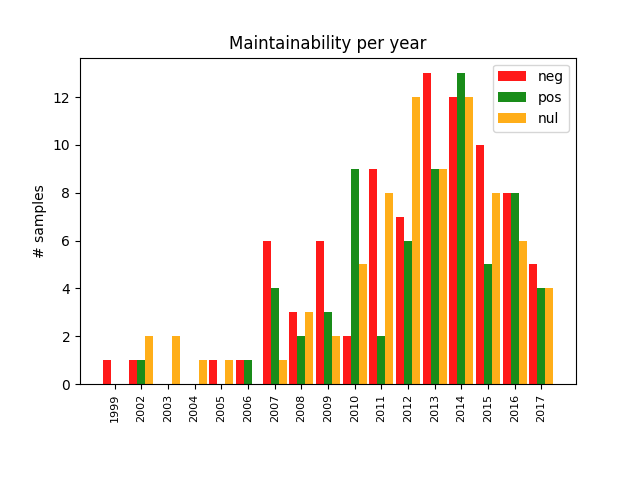
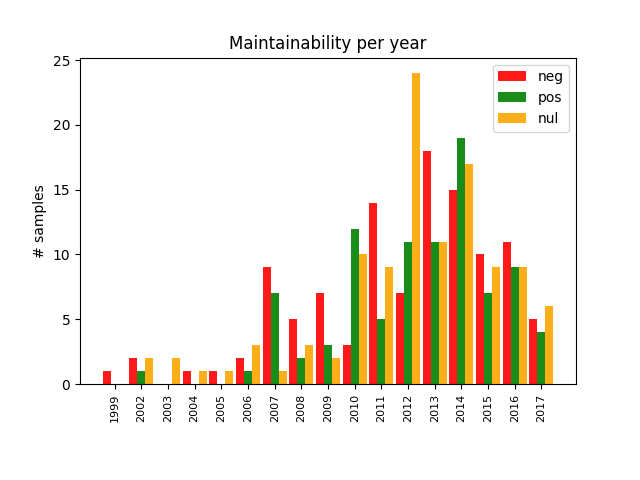
results + re-structure of the code

diff --git a/scripts/get_maintainability.py b/scripts/get_maintainability.py
@@ -74,81 +74,63 @@ def main(cache, results, graphics, dataset):
     data = pair_info(dataset)
 
     with open(results,'w') as out:
-    
+        
         fields = ['owner', 'project', 'sha', 'sha-p', 'main(sha)', 'main(sha-p)', 'main(diff)']
         writer = csv.DictWriter(out, fieldnames=fields)    
         writer.writeheader()
 
         total = {'neg': 0, 'pos': 0, 'nul': 0}
         keys = CACHE.data.keys()
-        
-        # fix problem of incomplete evaluation
-        len_eval = len(keys) if len(keys) % 2 == 0 else len(keys) - 1
 
-        lang = {}
-        pattern = {}
-        year = {}
+        langs = {}
+        patterns = {}
+        years = {}
 
-        i = 0
-        while i < len_eval:
-            owner, proj, sha = get_key(keys,i).split('/')
-            owner_p, proj_p, sha_p = get_key(keys,i+1).split('/')
-
-            if owner != owner_p or proj != proj_p:
-                print(get_key(keys,i),'deleted...')
-                del CACHE.data[get_key(keys,i)]
-                len_eval-=1
-            else:
-                i+=2        
-
-        for i in range(0, len_eval,2):
-
-            owner, proj, sha = get_key(keys,i).split('/')
-            owner_p, proj_p, sha_p = get_key(keys,i+1).split('/')
-
-            info_f = CACHE.get_stored_commit_analysis(owner, proj, sha)
-            info_p = CACHE.get_stored_commit_analysis(owner_p, proj_p, sha_p)
-
-            if info_f.get('error') or info_p.get('error'):
-                continue
-
-            main = bch.compute_maintainability_score(info_f)
-            main_p = bch.compute_maintainability_score(info_p)
-            main_d = main - main_p
-                
-            writer.writerow({'owner' : owner, 'project': proj,
-                                'sha': sha, 'sha-p': sha_p,
-                                'main(sha)': main,
-                                'main(sha-p)': main_p,
-                                'main(diff)': main_d
-                                })
-
-            # TODO: IMPROVE
-            key = set_key(owner, proj, sha, sha_p)
-            l, p, y = data[key]
-            lang = check_if_in(l, lang)
-            pattern = check_if_in(p, pattern)
-            year = check_if_in(y, year)
-
-            # TODO: IMPROVE
-            if main_d < 0:
-                count('neg', 0, total, lang, pattern, year, l, p, y)
-            elif main_d > 0:
-                count('pos', 1, total, lang, pattern, year, l, p, y)
-            else:
-                count('nul', 2, total, lang, pattern, year, l, p, y)
+        with open('../dataset/commits_patterns_sec.csv') as dataset:
+            lines = dataset.readlines()[1:]
+            for l in lines:
+                data = l.split(',')
+                owner, proj, sha, sha_p, lang, pattern, year = l.split(',')[0:7]
             
+                info_f = CACHE.get_stored_commit_analysis(owner, proj, sha)
+                info_p = CACHE.get_stored_commit_analysis(owner, proj, sha_p)
+
+                if info_f is None or info_p is None:
+                    continue
+                if info_f.get('error') or info_p.get('error'):
+                    continue
+         
+                main = bch.compute_maintainability_score(info_f)
+                main_p = bch.compute_maintainability_score(info_p)
+                main_d = main - main_p
+                    
+                writer.writerow({'owner' : owner, 'project': proj,
+                                    'sha': sha, 'sha-p': sha_p,
+                                    'main(sha)': main,
+                                    'main(sha-p)': main_p,
+                                    'main(diff)': main_d
+                                    })          
+                langs = check_if_in(lang, langs)
+                patterns = check_if_in(pattern, patterns)
+                years = check_if_in(year, years)
+
+                if main_d < 0:
+                    count('neg', 0, total, langs, patterns, years, lang, pattern, year)
+                elif main_d > 0:
+                    count('pos', 1, total, langs, patterns, years, lang, pattern, year)
+                else:
+                    count('nul', 2, total, langs, patterns, years, lang, pattern, year)
+
         total_main_barchart(total, graphics)
         clean_plot()
-        dic_barchart(pattern, graphics, 'Maintainability per pattern', 'patterns.png')
+        dic_barchart(patterns, graphics, 'Maintainability per pattern', 'patterns.png')
         clean_plot()
-        dic_barchart(lang, graphics, 'Maintainability per language', 'lang.png')
+        dic_barchart(langs, graphics, 'Maintainability per language', 'lang.png')
         clean_plot()
-        year_ord = collections.OrderedDict(sorted(year.items()))
+        year_ord = collections.OrderedDict(sorted(years.items()))
         dic_barchart(year_ord, graphics, 'Maintainability per year', 'year.png')
 
         print(total, 'total=', sum([value for key,value in total.items()]))
-
 
 if __name__ == "__main__":
     
